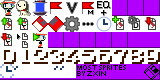
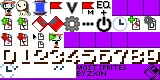
Add first menu bar
Temporarily disable automatic profile loading

Changed region(s): [[0.5938, 0.2, 0.9688, 0.4], [0.0938, 0.4, 0.4062, 0.6], [0.0312, 0.475, 0.0938, 0.55]]

diff --git a/src/main/java/com/leo/cse/frontend/Main.java b/src/main/java/com/leo/cse/frontend/Main.java
@@ -6,7 +6,6 @@ import java.awt.Font;
 import java.awt.GraphicsEnvironment;
 import java.awt.event.WindowAdapter;
 import java.awt.event.WindowEvent;
-import java.awt.image.BufferedImage;
 import java.io.BufferedReader;
 import java.io.File;
 import java.io.FileDescriptor;
@@ -24,7 +23,7 @@ import java.util.function.Supplier;
 
 import javax.swing.BorderFactory;
 import javax.swing.BoxLayout;
-import javax.swing.ImageIcon;
+import javax.swing.JDialog;
 import javax.swing.JFrame;
 import javax.swing.JLabel;
 import javax.swing.JOptionPane;
@@ -43,6 +42,8 @@ import com.leo.cse.backend.exe.ExeData;
 import com.leo.cse.backend.exe.ExeLoadListener;
 import com.leo.cse.backend.profile.ProfileListener;
 import com.leo.cse.backend.profile.ProfileManager;
+import com.leo.cse.frontend.ui.MenuBarHandler;
+import com.leo.cse.frontend.ui.panels.CorePanel;
 
 public class Main extends JFrame implements ExeLoadListener, ProfileListener {
 
@@ -68,6 +69,7 @@ public class Main extends JFrame implements ExeLoadListener, ProfileListener {
 	};
 
 	public static Main window;
+	private static MenuBarHandler windowMBH;
 
 	private static class ConfirmCloseWindowListener extends WindowAdapter {
 		@Override
@@ -130,44 +132,22 @@ public class Main extends JFrame implements ExeLoadListener, ProfileListener {
 		*/
 	}
 
-	// TODO REMOVE THIS TEST CODE!
-	private JPanel TEST_panel;
-
 	private void initPanel() {
 		/*
 		SaveEditorPanel sep = new SaveEditorPanel();
 		add(sep);
-		addKeyListener(sep);
-		addMouseListener(sep);
-		addMouseMotionListener(sep);
-		addMouseWheelListener(sep);
 		ProfileManager.addListener(sep);
 		ExeData.addListener(sep);
 		*/
-		// TODO REMOVE THIS TEST CODE!
-		TEST_panel = new JPanel();
-		TEST_addImagesToPanel(Resources.editorTabIcons);
-		TEST_addImagesToPanel(Resources.icons);
-		TEST_addImagesToPanel(Resources.nikuNumbers);
-		TEST_addImageToPanel(Resources.nikuIcon);
-		TEST_addImageToPanel(Resources.nikuPunc);
-		add(TEST_panel);
+		windowMBH = new MenuBarHandler(this);
+		CorePanel cp = new CorePanel();
+		add(cp);
 		setMaximumSize(WINDOW_SIZE);
 		setMinimumSize(WINDOW_SIZE);
 		setPreferredSize(WINDOW_SIZE);
 		pack();
 		setResizable(false);
 		setLocationRelativeTo(null);
-	}
-
-	// TODO REMOVE THESE TEST METHODS!
-	private void TEST_addImageToPanel(BufferedImage img) {
-		TEST_panel.add(new JLabel(new ImageIcon(img)));
-	}
-
-	private void TEST_addImagesToPanel(BufferedImage[] imgs) {
-		for (int i = 0; i < imgs.length; i++)
-			TEST_addImageToPanel(imgs[i]);
 	}
 
 	public static void loadProfile(File file, boolean record) {
@@ -209,6 +189,7 @@ public class Main extends JFrame implements ExeLoadListener, ProfileListener {
 
 	public static void loadExeOnCurrentThread(File exe) {
 		String tname = Thread.currentThread().getName();
+		window.setEnabled(false);
 		System.out.println("Starting EXE loading on thread " + tname);
 		// unload existing exe
 		ExeData.unload();
@@ -221,6 +202,8 @@ public class Main extends JFrame implements ExeLoadListener, ProfileListener {
 			JOptionPane.showMessageDialog(Main.window, "An error occured while loading the executable:\n" + e,
 					"Could not load executable!", JOptionPane.ERROR_MESSAGE);
 		}
+		window.setEnabled(true);
+		window.requestFocus();
 		System.out.println("Finished EXE loading on thread " + tname);
 	}
 
@@ -270,7 +253,7 @@ public class Main extends JFrame implements ExeLoadListener, ProfileListener {
 		}
 	}
 
-	public static class InitLoadFrame extends JFrame {
+	public static class InitLoadFrame extends JDialog {
 
 		private static final long serialVersionUID = 1L;
 
@@ -281,7 +264,7 @@ public class Main extends JFrame implements ExeLoadListener, ProfileListener {
 		}
 
 		public InitLoadFrame() {
-			setDefaultCloseOperation(JFrame.EXIT_ON_CLOSE);
+			setDefaultCloseOperation(JFrame.DO_NOTHING_ON_CLOSE);
 			setUndecorated(true);
 			final Dimension size = new Dimension(320, 120);
 			setPreferredSize(size);
@@ -298,14 +281,13 @@ public class Main extends JFrame implements ExeLoadListener, ProfileListener {
 			pack();
 			setLocationRelativeTo(null);
 			setIconImage(Resources.icon);
-			setAlwaysOnTop(true);
 			setVisible(true);
 			requestFocus();
 		}
 
 	}
 
-	public static class ExeLoadFrame extends JFrame {
+	public static class ExeLoadFrame extends JDialog {
 
 		private static final long serialVersionUID = 1L;
 
@@ -340,7 +322,7 @@ public class Main extends JFrame implements ExeLoadListener, ProfileListener {
 
 		public ExeLoadFrame() {
 			Font labelFont;
-			setDefaultCloseOperation(JFrame.EXIT_ON_CLOSE);
+			setDefaultCloseOperation(JFrame.DO_NOTHING_ON_CLOSE);
 			setUndecorated(true);
 			final Dimension size = new Dimension(480, 80);
 			setPreferredSize(size);
@@ -366,7 +348,6 @@ public class Main extends JFrame implements ExeLoadListener, ProfileListener {
 			pack();
 			setLocationRelativeTo(null);
 			setIconImage(Resources.icon);
-			setAlwaysOnTop(true);
 			setVisible(true);
 			requestFocus();
 		}
@@ -543,23 +524,12 @@ public class Main extends JFrame implements ExeLoadListener, ProfileListener {
 			loadFrame.dispose();
 			window.setVisible(true);
 			window.requestFocus();
+			/*
 			SwingUtilities.invokeLater(() -> {
 				File p = new File(System.getProperty("user.dir") + "/Profile.dat");
 				if (p.exists())
 					loadProfile(p, false);
 			});
-			/*
-			Thread rrThread = new Thread(() -> {
-				while (true) {
-					window.repaint();
-					try {
-						Thread.sleep(10);
-					} catch (InterruptedException e) {
-						e.printStackTrace();
-					}
-				}
-			}, "RepaintRequest");
-			rrThread.start();
 			*/
 		});
 	}
@@ -567,6 +537,14 @@ public class Main extends JFrame implements ExeLoadListener, ProfileListener {
 	@Override
 	public void onChange(String field, int id, Object oldValue, Object newValue) {
 		setTitle(this);
+		switch (field) {
+		case ProfileManager.EVENT_LOAD:
+			windowMBH.setProfileLoaded(true);
+			break;
+		case ProfileManager.EVENT_UNLOAD:
+			windowMBH.setProfileLoaded(false);
+			break;
+		}
 	}
 
 	@Override
@@ -578,6 +556,7 @@ public class Main extends JFrame implements ExeLoadListener, ProfileListener {
 		boolean plusMode = ExeData.isPlusMode();
 		switch (event) {
 		case ExeData.EVENT_PRELOAD:
+			windowMBH.setPlusMode(plusMode);
 			if (plusMode)
 				try {
 					MCI.readPlus();
@@ -612,6 +591,10 @@ public class Main extends JFrame implements ExeLoadListener, ProfileListener {
 			}
 			exeLoadFrame.dispose();
 			exeLoadFrame = null;
+			windowMBH.setExeLoaded(true);
+			break;
+		case ExeData.EVENT_UNLOAD:
+			windowMBH.setExeLoaded(false);
 			break;
 		default:
 			break;

diff --git a/src/main/java/com/leo/cse/frontend/ui/MenuBarHandler.java b/src/main/java/com/leo/cse/frontend/ui/MenuBarHandler.java
@@ -1,0 +1,115 @@
+package com.leo.cse.frontend.ui;
+
+import java.awt.event.ActionEvent;
+import java.awt.event.ActionListener;
+import java.awt.event.InputEvent;
+
+import javax.swing.JFrame;
+import javax.swing.JMenu;
+import javax.swing.JMenuBar;
+import javax.swing.JMenuItem;
+import javax.swing.KeyStroke;
+
+import com.leo.cse.frontend.Resources;
+
+public class MenuBarHandler implements ActionListener {
+
+	private boolean plusMode;
+
+	// TODO Code menu bar functions
+	public MenuBarHandler(JFrame window) {
+		JMenuBar mb = new JMenuBar();
+		addFileMenu(mb);
+		// TODO Other menus
+		window.setJMenuBar(mb);
+	}
+
+	private JMenuItem mFile_ChangeFile, mFile_UnloadProfile, mFile_RunExe, mFile_UnloadExe, mFile_Save, mFile_SaveAs;
+
+	private void addFileMenu(JMenuBar mb) {
+		JMenu mFile = new JMenu("File");
+		JMenuItem mFileItem;
+		mFileItem = new JMenuItem("New Profile");
+		mFileItem.addActionListener(this);
+		mFileItem.setAccelerator(KeyStroke.getKeyStroke('N', InputEvent.CTRL_DOWN_MASK));
+		mFileItem.setIcon(Resources.createIconForImage(Resources.icons[8]));
+		mFile.add(mFileItem);
+		mFileItem = new JMenuItem("Load Profile");
+		mFileItem.addActionListener(this);
+		mFileItem.setAccelerator(KeyStroke.getKeyStroke('O', InputEvent.CTRL_DOWN_MASK));
+		mFileItem.setIcon(Resources.createIconForImage(Resources.icons[0]));
+		mFile.add(mFileItem);
+		mFile_ChangeFile = mFileItem = new JMenuItem("Change File");
+		mFileItem.addActionListener(this);
+		mFileItem.setIcon(Resources.createIconForImage(Resources.icons[12]));
+		mFileItem.setEnabled(false);
+		mFile.add(mFileItem);
+		mFile_UnloadProfile = mFileItem = new JMenuItem("Unload Profile");
+		mFileItem.addActionListener(this);
+		mFileItem.setIcon(Resources.createIconForImage(Resources.icons[10]));
+		mFileItem.setEnabled(false);
+		mFile.add(mFileItem);
+		mFileItem = new JMenuItem("Load Game/Mod");
+		mFileItem.addActionListener(this);
+		mFileItem.setAccelerator(KeyStroke.getKeyStroke('O', InputEvent.CTRL_DOWN_MASK | InputEvent.SHIFT_DOWN_MASK));
+		mFileItem.setIcon(Resources.createIconForImage(Resources.icons[1]));
+		mFile.add(mFileItem);
+		mFile_RunExe = mFileItem = new JMenuItem("Run Game/Mod");
+		mFileItem.addActionListener(this);
+		mFileItem.setIcon(Resources.createIconForImage(Resources.icons[13]));
+		mFileItem.setEnabled(false);
+		mFile.add(mFileItem);
+		mFile_UnloadExe = mFileItem = new JMenuItem("Unload Game/Mod");
+		mFileItem.addActionListener(this);
+		mFileItem.setIcon(Resources.createIconForImage(Resources.icons[11]));
+		mFileItem.setEnabled(false);
+		mFile.add(mFileItem);
+		mFile_Save = mFileItem = new JMenuItem("Save");
+		mFileItem.addActionListener(this);
+		mFileItem.setAccelerator(KeyStroke.getKeyStroke('S', InputEvent.CTRL_DOWN_MASK));
+		mFileItem.setIcon(Resources.createIconForImage(Resources.icons[2]));
+		mFileItem.setEnabled(false);
+		mFile.add(mFileItem);
+		mFile_SaveAs = mFileItem = new JMenuItem("Save As...");
+		mFileItem.addActionListener(this);
+		mFileItem.setAccelerator(KeyStroke.getKeyStroke('S', InputEvent.CTRL_DOWN_MASK | InputEvent.SHIFT_DOWN_MASK));
+		mFileItem.setIcon(Resources.createIconForImage(Resources.icons[3]));
+		mFileItem.setEnabled(false);
+		mFile.add(mFileItem);
+		mFileItem = new JMenuItem("Settings");
+		mFileItem.addActionListener(this);
+		mFileItem.setIcon(Resources.createIconForImage(Resources.icons[4]));
+		mFile.add(mFileItem);
+		mFileItem = new JMenuItem("About");
+		mFileItem.addActionListener(this);
+		mFileItem.setIcon(Resources.createIconForImage(Resources.icons[5]));
+		mFile.add(mFileItem);
+		mFileItem = new JMenuItem("Quit");
+		mFileItem.addActionListener(this);
+		mFileItem.setIcon(Resources.createIconForImage(Resources.icons[6]));
+		mFile.add(mFileItem);
+		mb.add(mFile);
+	}
+
+	public void setProfileLoaded(boolean profileLoaded) {
+		mFile_ChangeFile.setEnabled(profileLoaded && plusMode);
+		mFile_UnloadProfile.setEnabled(profileLoaded);
+		mFile_Save.setEnabled(profileLoaded);
+		mFile_SaveAs.setEnabled(profileLoaded);
+	}
+
+	public void setExeLoaded(boolean exeLoaded) {
+		mFile_RunExe.setEnabled(exeLoaded);
+		mFile_UnloadExe.setEnabled(exeLoaded);
+	}
+
+	public void setPlusMode(boolean plusMode) {
+		this.plusMode = plusMode;
+		mFile_ChangeFile.setEnabled(plusMode);
+	}
+
+	@Override
+	public void actionPerformed(ActionEvent e) {
+	}
+
+}

diff --git a/src/main/java/com/leo/cse/frontend/Resources.java b/src/main/java/com/leo/cse/frontend/Resources.java
@@ -4,8 +4,11 @@ import java.awt.Font;
 import java.awt.FontFormatException;
 import java.awt.image.BufferedImage;
 import java.io.IOException;
+import java.util.HashMap;
+import java.util.Map;
 
 import javax.imageio.ImageIO;
+import javax.swing.ImageIcon;
 
 public class Resources {
 
@@ -48,7 +51,7 @@ public class Resources {
 		editorTabIcons = new BufferedImage[7];
 		for (int i = 0; i < editorTabIcons.length; i++)
 			editorTabIcons[i] = ui.getSubimage(i * 16, 0, 16, 16);
-		icons = new BufferedImage[13];
+		icons = new BufferedImage[14];
 		int tbx = 0, tby = 0;
 		for (int i = 0; i < icons.length; i++) {
 			if (i % 10 == 0) {
@@ -63,6 +66,19 @@ public class Resources {
 			nikuNumbers[i] = ui.getSubimage(i * 16, 48, 16, 16);
 		nikuIcon = ui.getSubimage(0, 64, 14, 14);
 		nikuPunc = ui.getSubimage(14, 64, 62, 14);
+	}
+	
+	private static Map<BufferedImage, ImageIcon> iconCache;
+	
+	public static ImageIcon createIconForImage(BufferedImage image) {
+		if (iconCache == null)
+			iconCache = new HashMap<>();
+		else
+			if (iconCache.containsKey(image))
+				return iconCache.get(image);
+		ImageIcon icon = new ImageIcon(image);
+		iconCache.put(image, icon);
+		return icon;
 	}
 
 }

diff --git a/src/main/java/com/leo/cse/frontend/ui/panels/CorePanel.java b/src/main/java/com/leo/cse/frontend/ui/panels/CorePanel.java
@@ -1,0 +1,9 @@
+package com.leo.cse.frontend.ui.panels;
+
+import javax.swing.JTabbedPane;
+
+public class CorePanel extends JTabbedPane {
+
+	private static final long serialVersionUID = 1L;
+
+}
